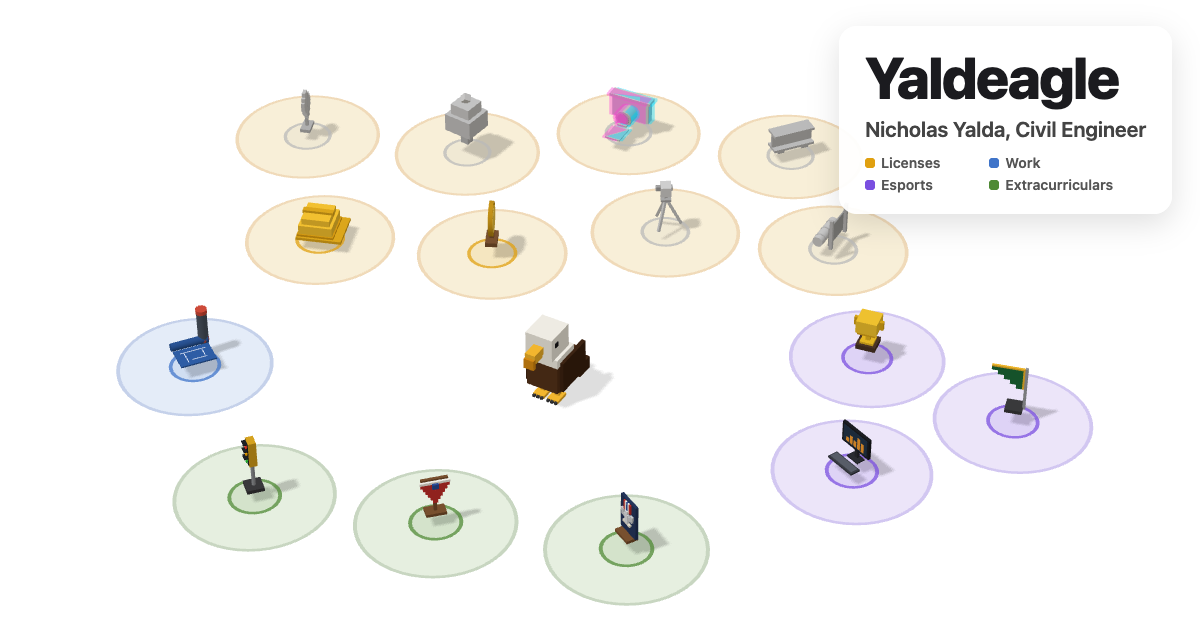
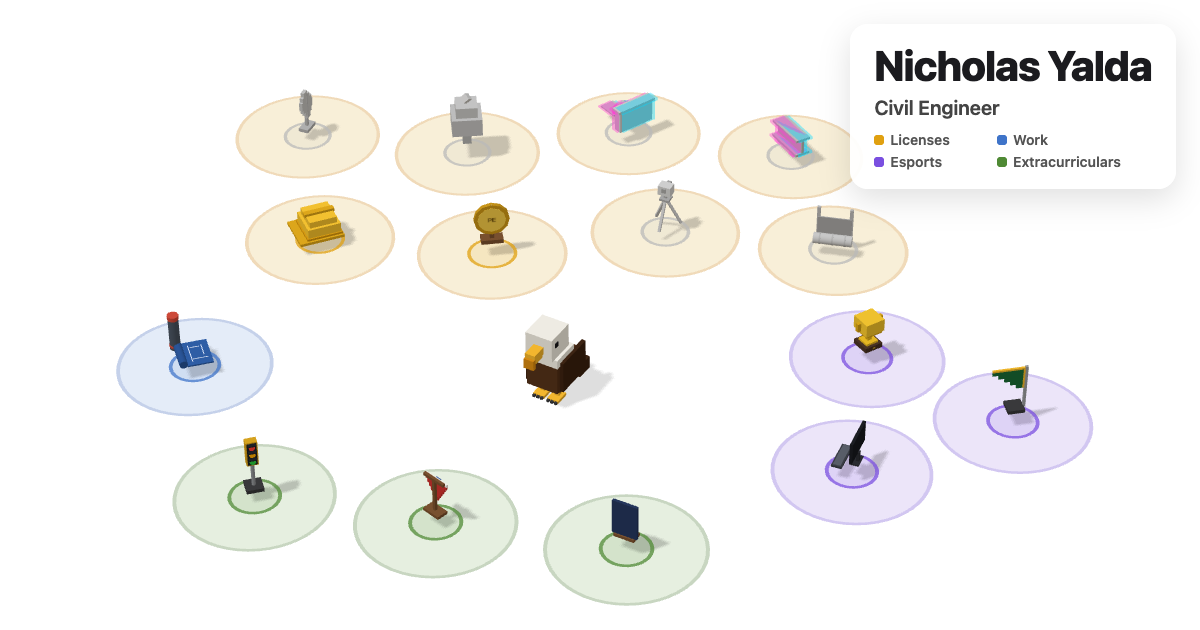
Put Nicholas Yalda on the link preview card in place of the project name

diff --git a/index.html b/index.html
@@ -14,17 +14,18 @@
     <meta property="og:type" content="website" />
     <meta property="og:site_name" content="yalda.si" />
     <meta property="og:url" content="https://www.yalda.si/" />
-    <meta property="og:title" content="Yaldeagle: Nicholas Yalda, Civil Engineer" />
+    <meta property="og:title" content="Nicholas Yalda, Civil Engineer" />
     <meta
       property="og:description"
       content="A blocky eagle wanders a room of Nick Yalda's licenses, work, esports, and extracurriculars. Click an item to see the story behind it."
     />
-    <meta property="og:image" content="https://www.yalda.si/og.png" />
+    <!-- Change the version after a new og.png, because Discord caches the image by its URL. -->
+    <meta property="og:image" content="https://www.yalda.si/og.png?v=2" />
     <meta property="og:image:width" content="1200" />
     <meta property="og:image:height" content="630" />
     <meta
       property="og:image:alt"
-      content="The Yaldeagle room: a blocky eagle among items for licenses, work, esports, and extracurriculars."
+      content="A blocky eagle in a room of items for Nicholas Yalda's licenses, work, esports, and extracurriculars."
     />
     <meta name="twitter:card" content="summary_large_image" />
   </head>
